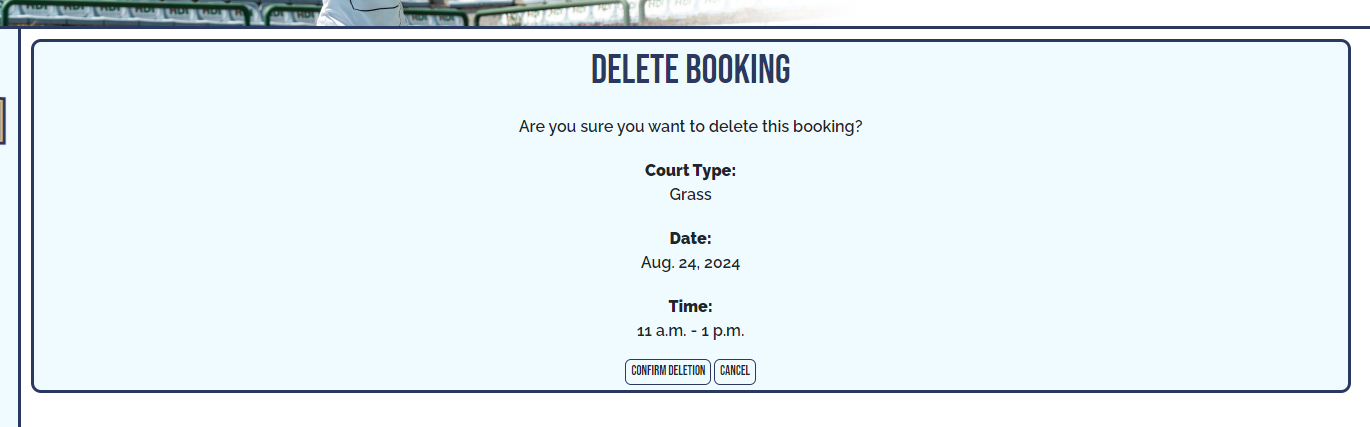
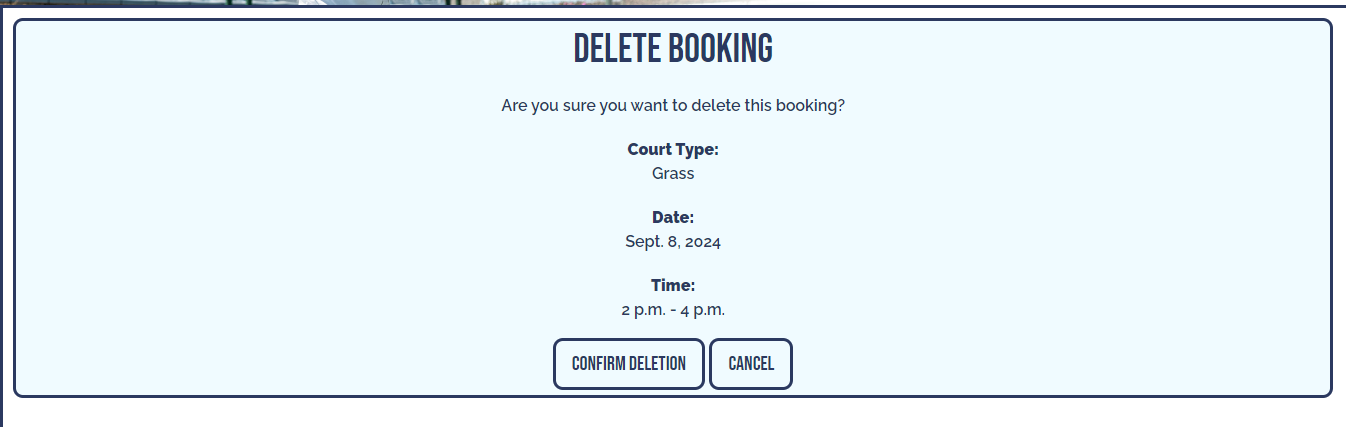
Style: Delete booking
Change textcolor, enlarged buttons and style on
the buttons so they match the other design of the
page.

Changed region(s): [[0.0, 0.0, 1.0, 1.0]]

diff --git a/templates/delete_booking.html b/templates/delete_booking.html
@@ -5,14 +5,14 @@
 
 <div class="container card-body blue-border no-margin-left article-post white-background-2">
     <h1 class="nav-font">Delete Booking</h1>
-    <p class="content-text">Are you sure you want to delete this booking?</p>
-    <p class="content-text"><strong>Court Type:</strong><br> {{ booking.court_type }}</p>
-    <p class="content-text"><strong>Date: </strong><br>{{ booking.date }}</p>
-    <p class="content-text"><strong>Time: </strong><br>{{ booking.start_time.start_time }} - {{ booking.end_time.end_time }}</p>
+    <p class="content-text darkblue">Are you sure you want to delete this booking?</p>
+    <p class="content-text darkblue"><strong>Court Type:</strong><br> {{ booking.court_type }}</p>
+    <p class="content-text darkblue"><strong>Date: </strong><br>{{ booking.date }}</p>
+    <p class="content-text darkblue"><strong>Time: </strong><br>{{ booking.start_time.start_time }} - {{ booking.end_time.end_time }}</p>
     <form method="POST" action="{% url 'delete_booking' booking.id %}">
         {% csrf_token %}
-        <button type="submit" class="btn btn-edit">Confirm Deletion</button>
-        <a href="{% url 'my_bookings' %}"><button class="btn btn-delete">Cancel</button></a>
+        <button type="submit" class="btn btn-signup btn-lg blue-border">Confirm Deletion</button>
+        <a href="{% url 'my_bookings' %}"><button class="btn btn-lg blue-border btn-big-delete nav-font darkblue">Cancel</button></a>
     </form>
 </div>
 {% endblock %}

diff --git a/staticfiles/css/style.a2e852e072c1.css b/staticfiles/css/style.a2e852e072c1.css
@@ -16,7 +16,7 @@ html, body {
 header {
     height: 200px;
     display: none;
-    background-image: url(../images/header.png);
+    background-image: url("../images/header.d051fc8b9045.png");
     background-size: auto;
     background-repeat: no-repeat;
     border-bottom: 3px solid #2B3960;
@@ -263,10 +263,6 @@ h1, h5, h4, .darkblue{
     border: 1px solid #602b2b;
     color: #602b2b;
     background-color: #d15151;
-}
-
-.btn-big-delete:hover {
-    border: 3px solid #602b2b;
 }
 
 .big-nav a:hover {

diff --git a/staticfiles/css/style.css b/staticfiles/css/style.css
@@ -259,10 +259,14 @@ h1, h5, h4, .darkblue{
     color: #E8B272;
 }
 
-.btn-delete:hover {
+.btn-delete:hover, .btn-big-delete:hover {
     border: 1px solid #602b2b;
     color: #602b2b;
     background-color: #d15151;
+}
+
+.btn-big-delete:hover {
+    border: 3px solid #602b2b;
 }
 
 .big-nav a:hover {

diff --git a/staticfiles/css/style.38bd63e1b8d6.css b/staticfiles/css/style.38bd63e1b8d6.css
@@ -16,7 +16,7 @@ html, body {
 header {
     height: 200px;
     display: none;
-    background-image: url(../images/header.png);
+    background-image: url("../images/header.d051fc8b9045.png");
     background-size: auto;
     background-repeat: no-repeat;
     border-bottom: 3px solid #2B3960;
